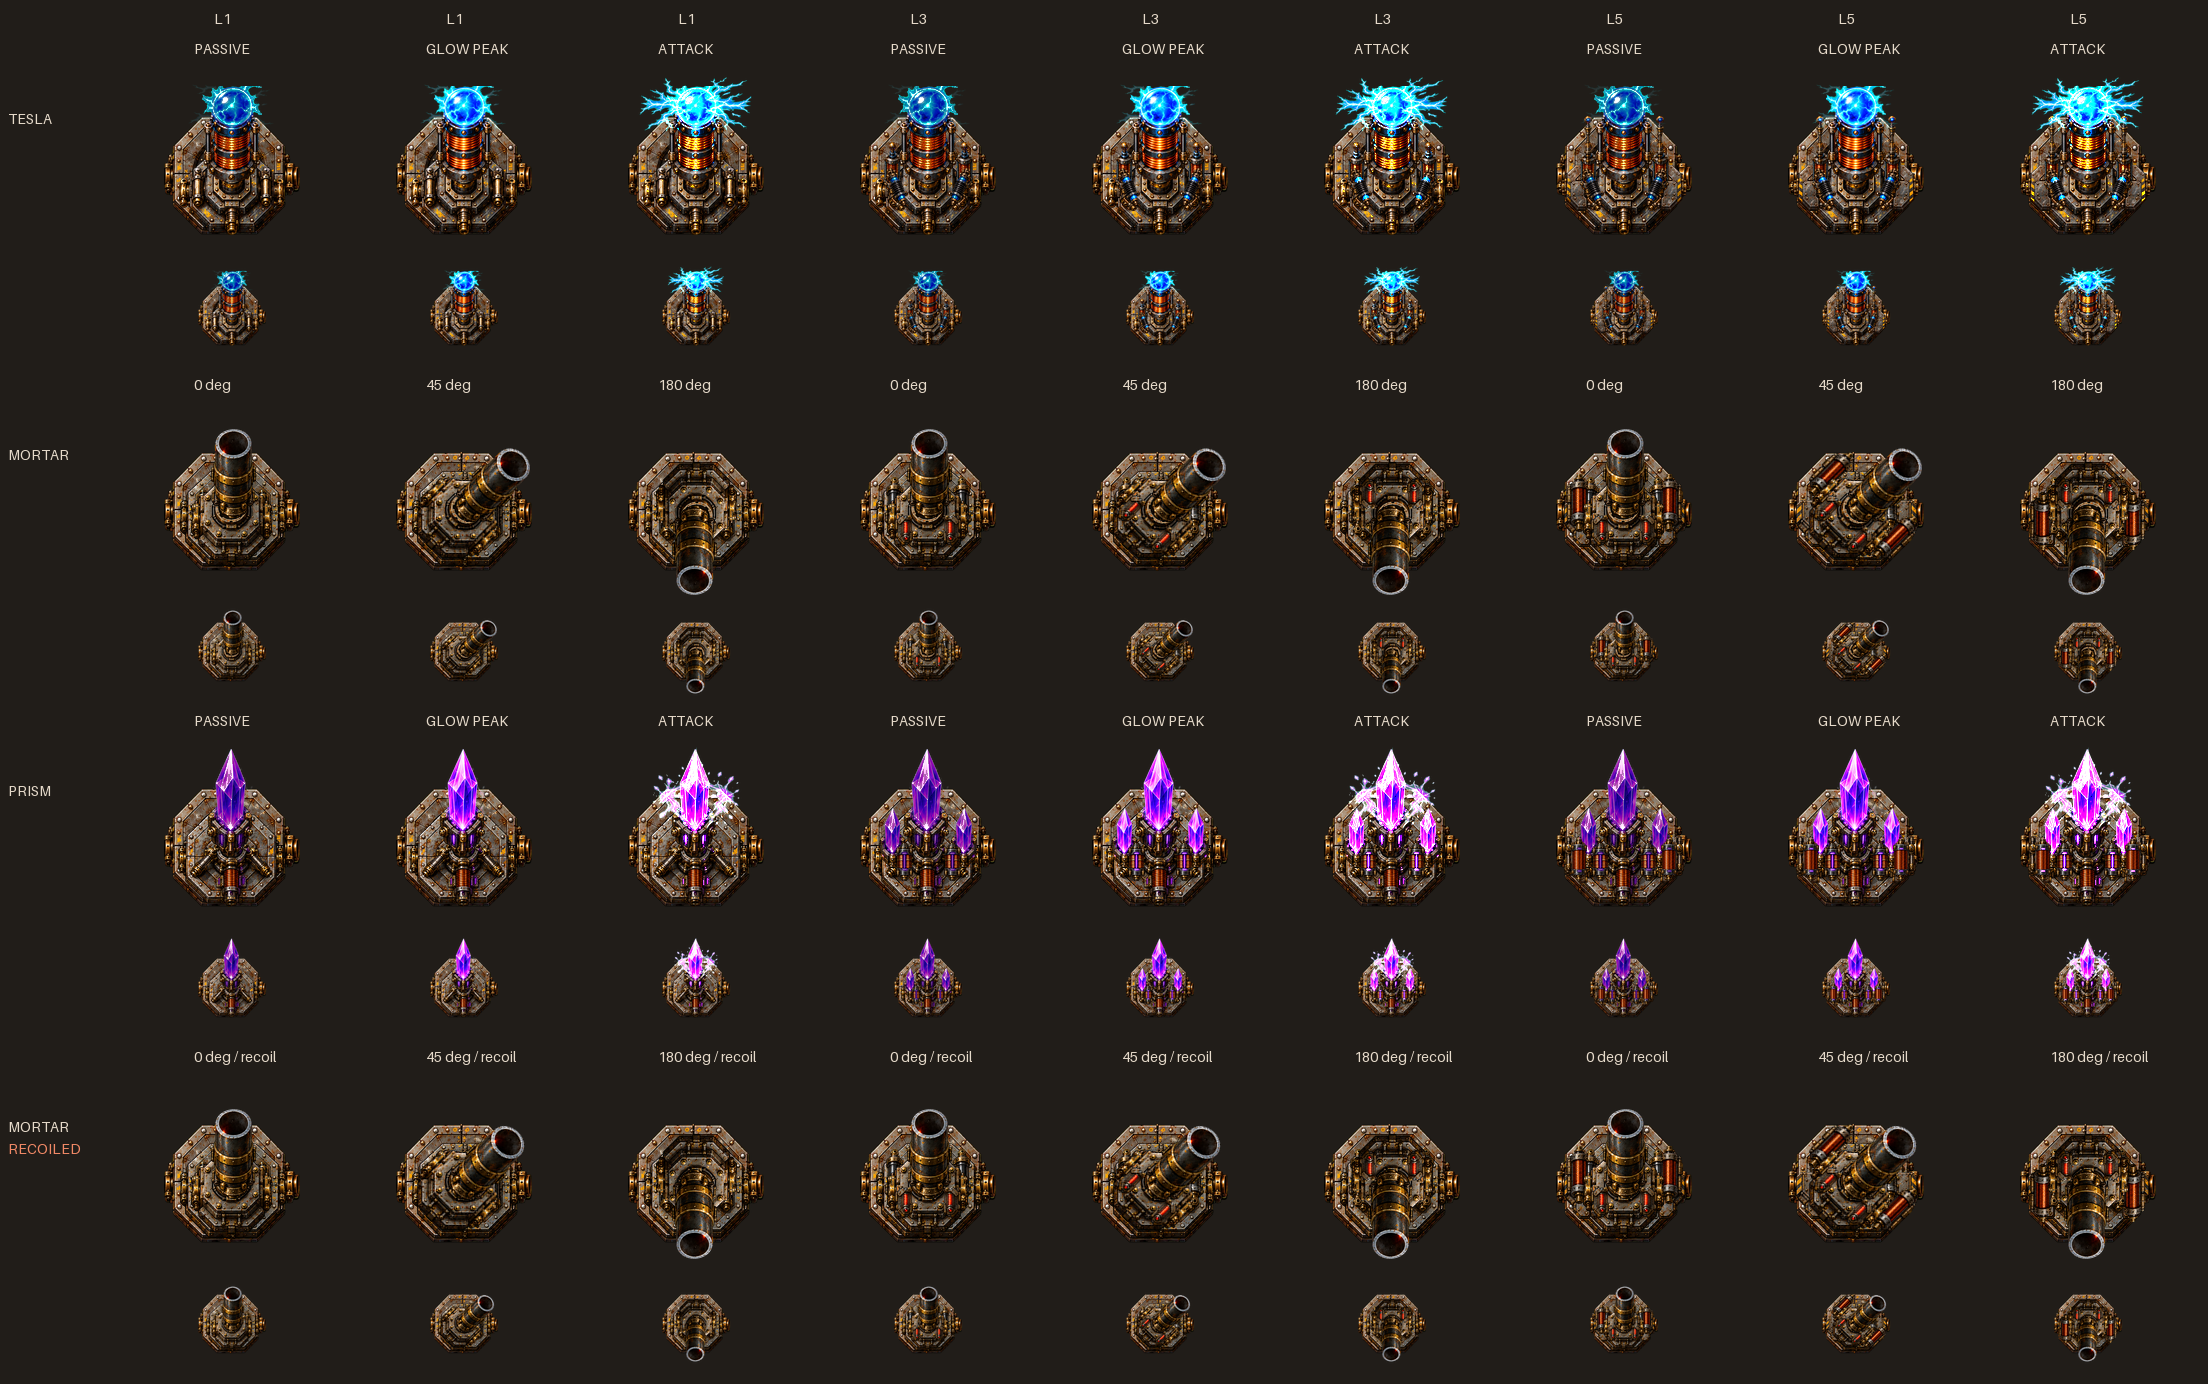
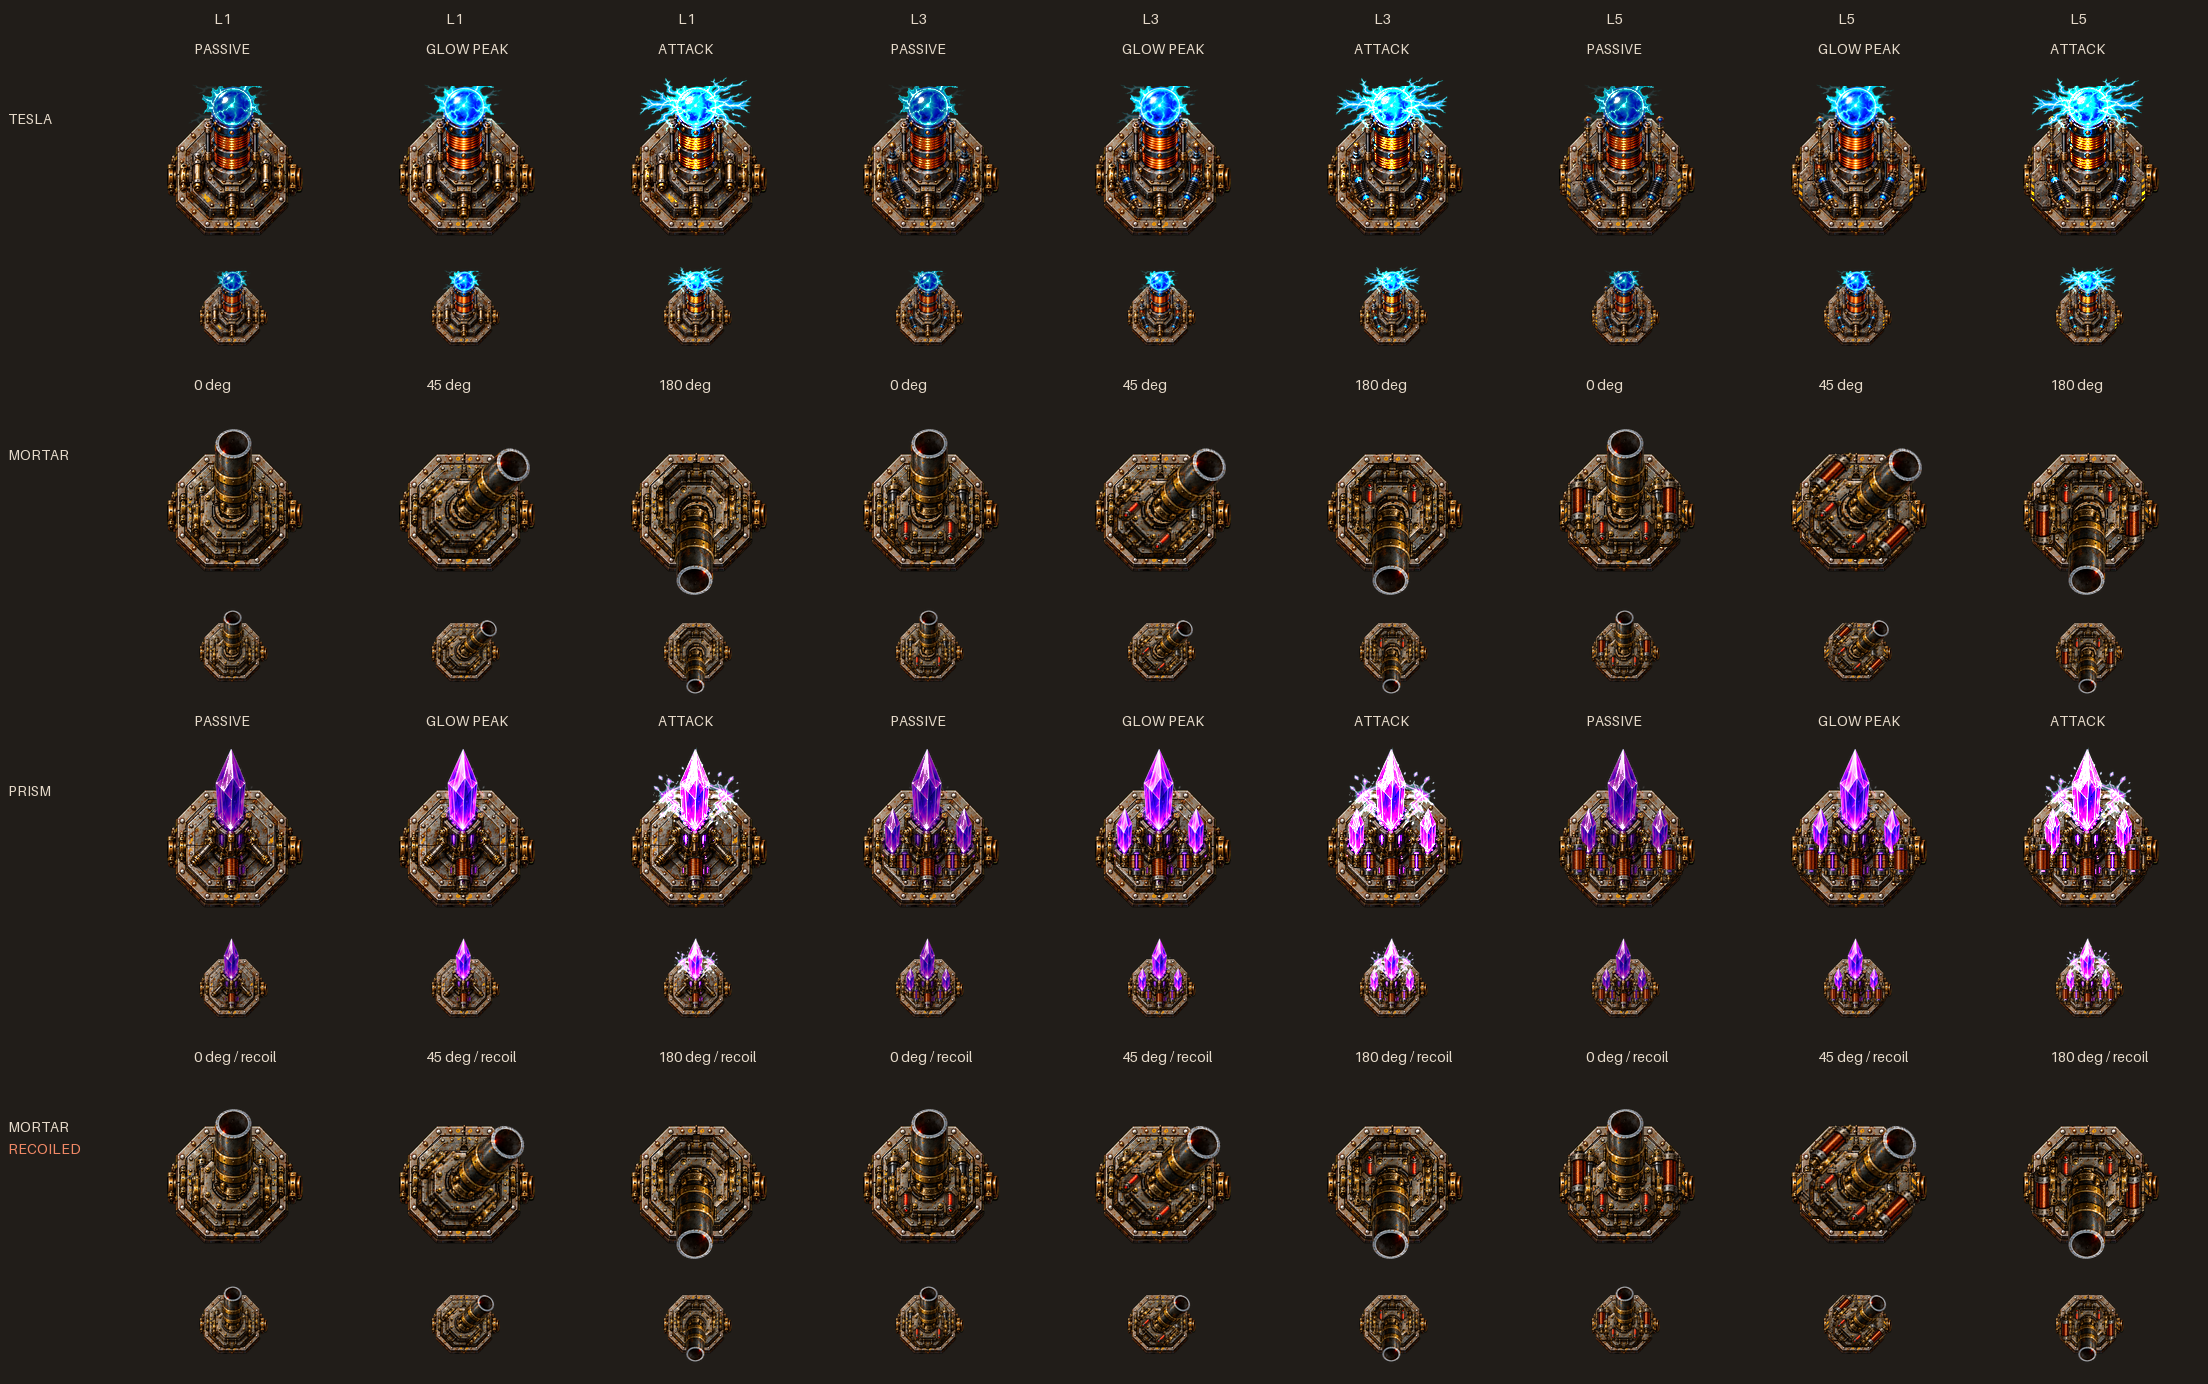
Dynamo Defense: center octagonal tower bases on platform outlines

diff --git a/public/td/towers/NOTES.md b/public/td/towers/NOTES.md
@@ -8,8 +8,9 @@ codex/td-towers-work is based on towerdefense-concept-art.
 FILES.txt enumerates every actual production file, including this note.
 manifest.json indexes one manifest each for Tesla, Mortar and Prism.
 Offsets, pivots, mountPosition and anchors use the 224x224 assembled rest frame.
-The pad and main mounting points share [112,112]; placement uses source sockets,
-not image bounding-box centers. The 136px pad remains 2x a 68px game footprint.
+Pad/subplatform outline centers and weapon mounts share [112,112]. Center the
+octagonal bodies by outlineBounds, excluding sockets and side fittings; anchor
+weapons by their feet. The 136px pad remains 2x a 68px game footprint.
 Four clear pixels pad every part and every effect frame.
 Include all parts with minLevel <= level; upgrades are cumulative through L5.
 Every part has a same-canvas _glow.png; unlit parts have clear emissive layers.
@@ -30,7 +31,7 @@ preview.png is rendered from the actual manifests and PNGs on #211d19:
 L1/L3/L5 passive, glow peak and attack for Tesla/Prism; 0/45/180-degree Mortar
 and matching recoil poses. Each cell includes a 68px-footprint reduction.
 Working files include passive/attack GIFs and their same-time comparison.
-Validation covers 480 aiming/recoil poses, 300 animation samples, socket centering,
+Validation covers 480 aiming/recoil poses, 300 animation samples, concentric outlines,
 fixed-rig invariance, glow/effect canvases, visible upgrades, clipping and budget.
 The full production directory is below 1.5MB. No game code changed.
 The concept's steep overhead depth is retained; only Mortar uses 2D aiming rotation.
